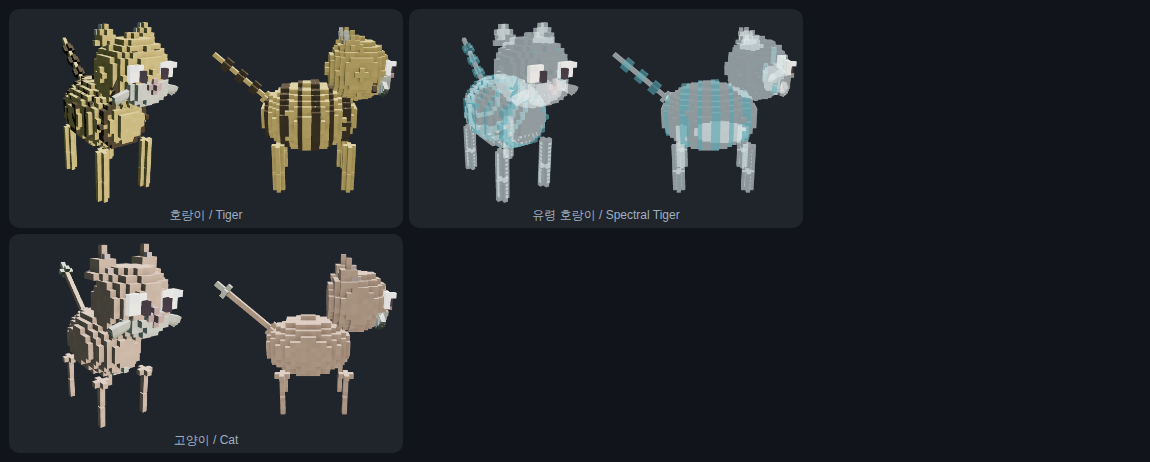
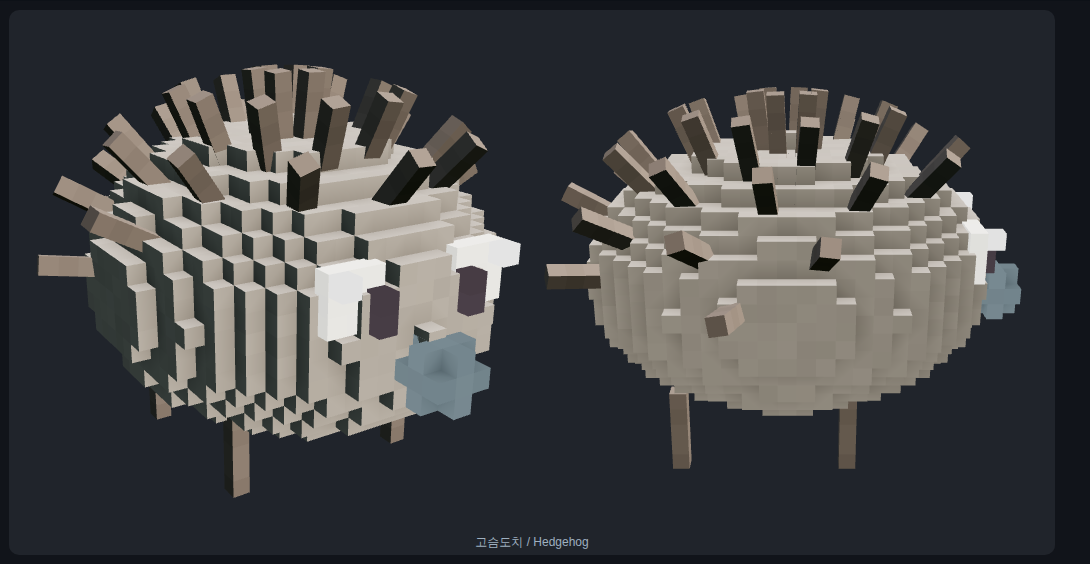
고슴도치 가시를 목덜미 볏에서 등 전면 가시밭으로 (pet-species-recognizable ㉩)
경미 지적: 가시가 목덜미에만 있어 펑크 헤어(모히칸)로 읽혔다. 고슴도치는
등 전면이 가시밭이다 — 등 반구를 격자로 훑어 짧고 촘촘한 가시 40여 개를
표면 법선 방향으로 심었다. 얼굴 앞아래(코·눈 자리)는 비웠다.

diff --git a/web/js/scene3d.js b/web/js/scene3d.js
@@ -9845,12 +9845,26 @@ const Scene3D = {
                 quad(0.082, 0.086, -0.098, 0.142, 0.082, 0.023, mat, { amp: 0.52, lo: 0.06 });
                 break;
             }
-            case 'Hedgehog': { // 등 가시 + 총총거리는 짧은 네 다리
-                sp(0.14, 0, 0.16, 0.02, light, 1.1, 0.85, 1.25);
-                for (let i = 0; i < 7; i++) {
-                    const a = (i / 7) * Math.PI - Math.PI / 2;
-                    const s2 = cn(0.03, 0.11, Math.sin(a) * 0.1, 0.24 + Math.cos(a) * 0.06, -0.05 - Math.abs(Math.sin(a)) * 0.04, dark);
-                    s2.rotation.z = -a * 0.8;
+            case 'Hedgehog': { // 등 전면 가시밭 + 총총거리는 짧은 네 다리
+                const bcy = 0.16, bR = [0.154, 0.119, 0.175];
+                sp(0.14, 0, bcy, 0.02, light, 1.1, 0.85, 1.25);
+                // 🚨 경미 지적 ㉩: *"가시가 목덜미에만 = 펑크 헤어."* 종전은 가시 7개를 **한 줄
+                //    부채**로만 세워, 목덜미에 볏처럼 난 모히칸이었다. 고슴도치는 **등 전면**이
+                //    가시밭이다 → 등 반구를 격자로 훑어 **짧고 촘촘한 가시 40~50개**를 표면 법선
+                //    방향으로 심는다(얼굴 앞아래는 비운다 — 코·눈 자리).
+                const up = new THREE.Vector3(0, 1, 0), q = new THREE.Vector3();
+                for (let ring = 0; ring < 5; ring++) {
+                    const el = 0.12 + ring * 0.33;             // 지평~정수리(0.12~1.44 rad)
+                    const cnt = ring === 0 ? 7 : ring === 4 ? 6 : 11;
+                    for (let k = 0; k < cnt; k++) {
+                        const az = (k / cnt) * Math.PI * 2 + ring * 0.3;
+                        const nx = Math.cos(el) * Math.sin(az), ny = Math.sin(el), nz = Math.cos(el) * Math.cos(az);
+                        if (nz > 0.45 && ny < 0.5) continue;   // 얼굴 앞아래는 민짜(코·눈 자리)
+                        const px = bR[0] * nx, py = bcy + bR[1] * ny, pz = 0.02 + bR[2] * nz;
+                        const sk = cn(0.014, 0.075, px, py, pz, dark);
+                        q.set(nx, ny * 1.15, nz).normalize();
+                        sk.quaternion.setFromUnitVectors(up, q);
+                    }
                 }
                 const snout = pv(0, 0.14, 0.14);
                 into(snout, () => { sp(0.03, 0, 0, 0.06, blk); eyes(0.05, 0.03, 0.05); });
